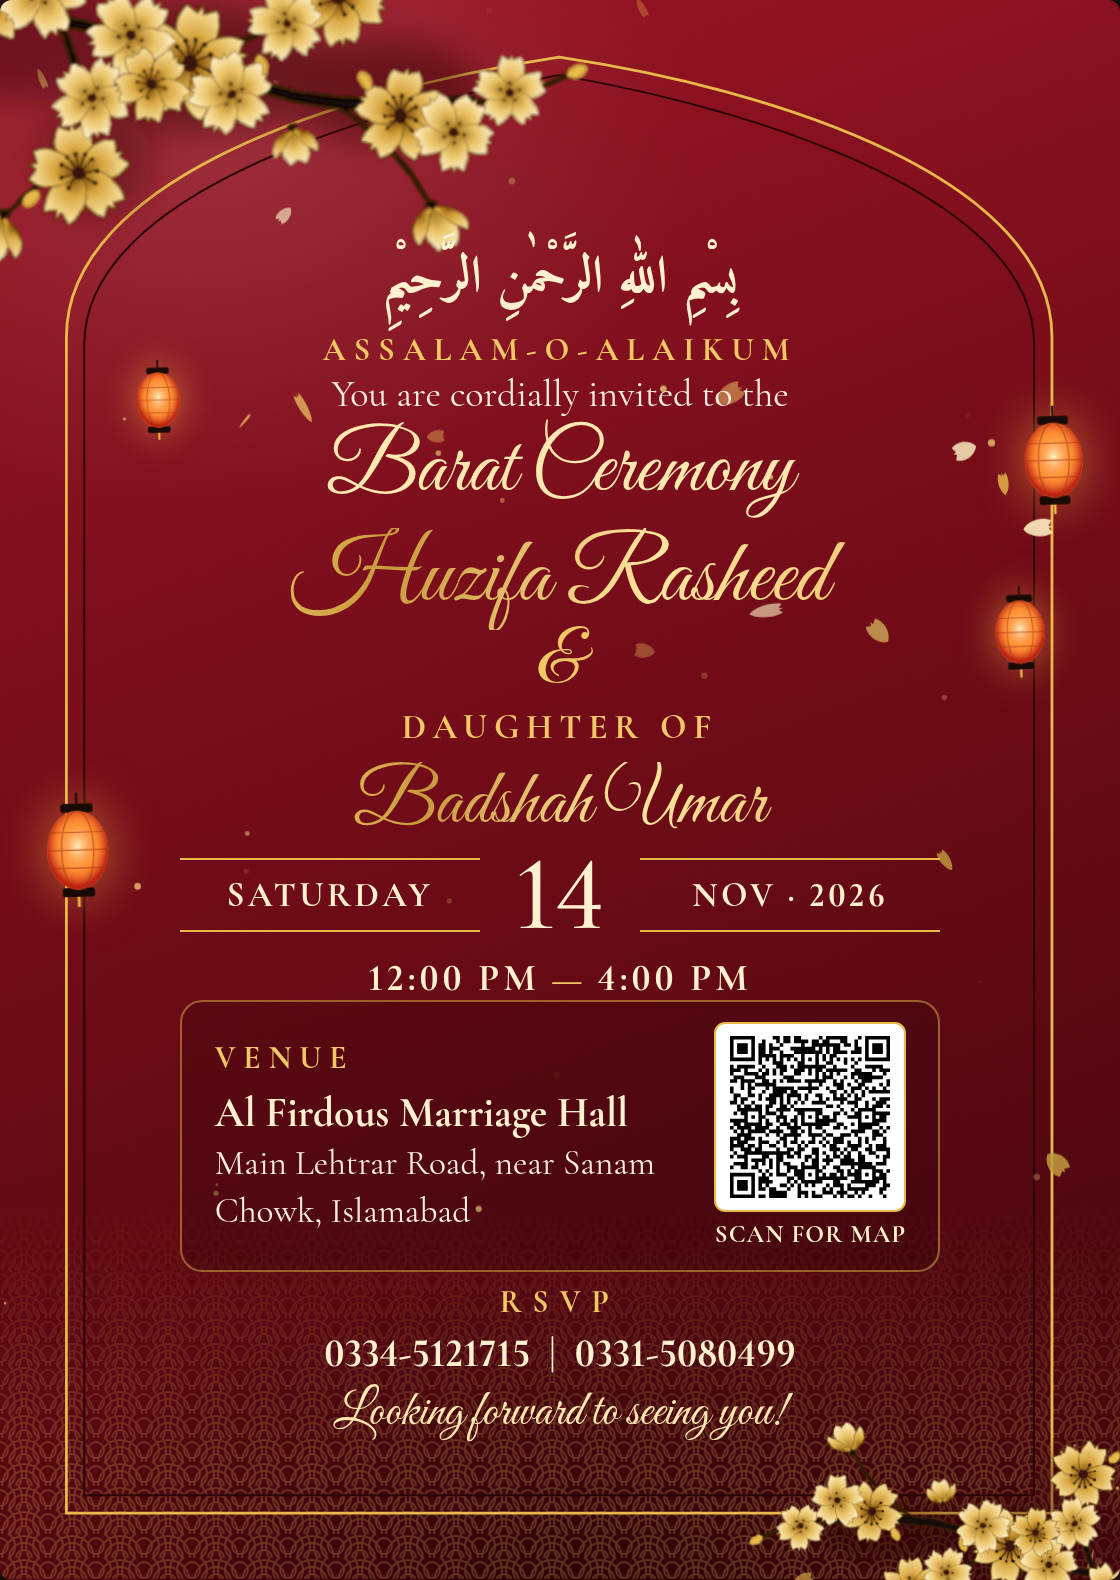
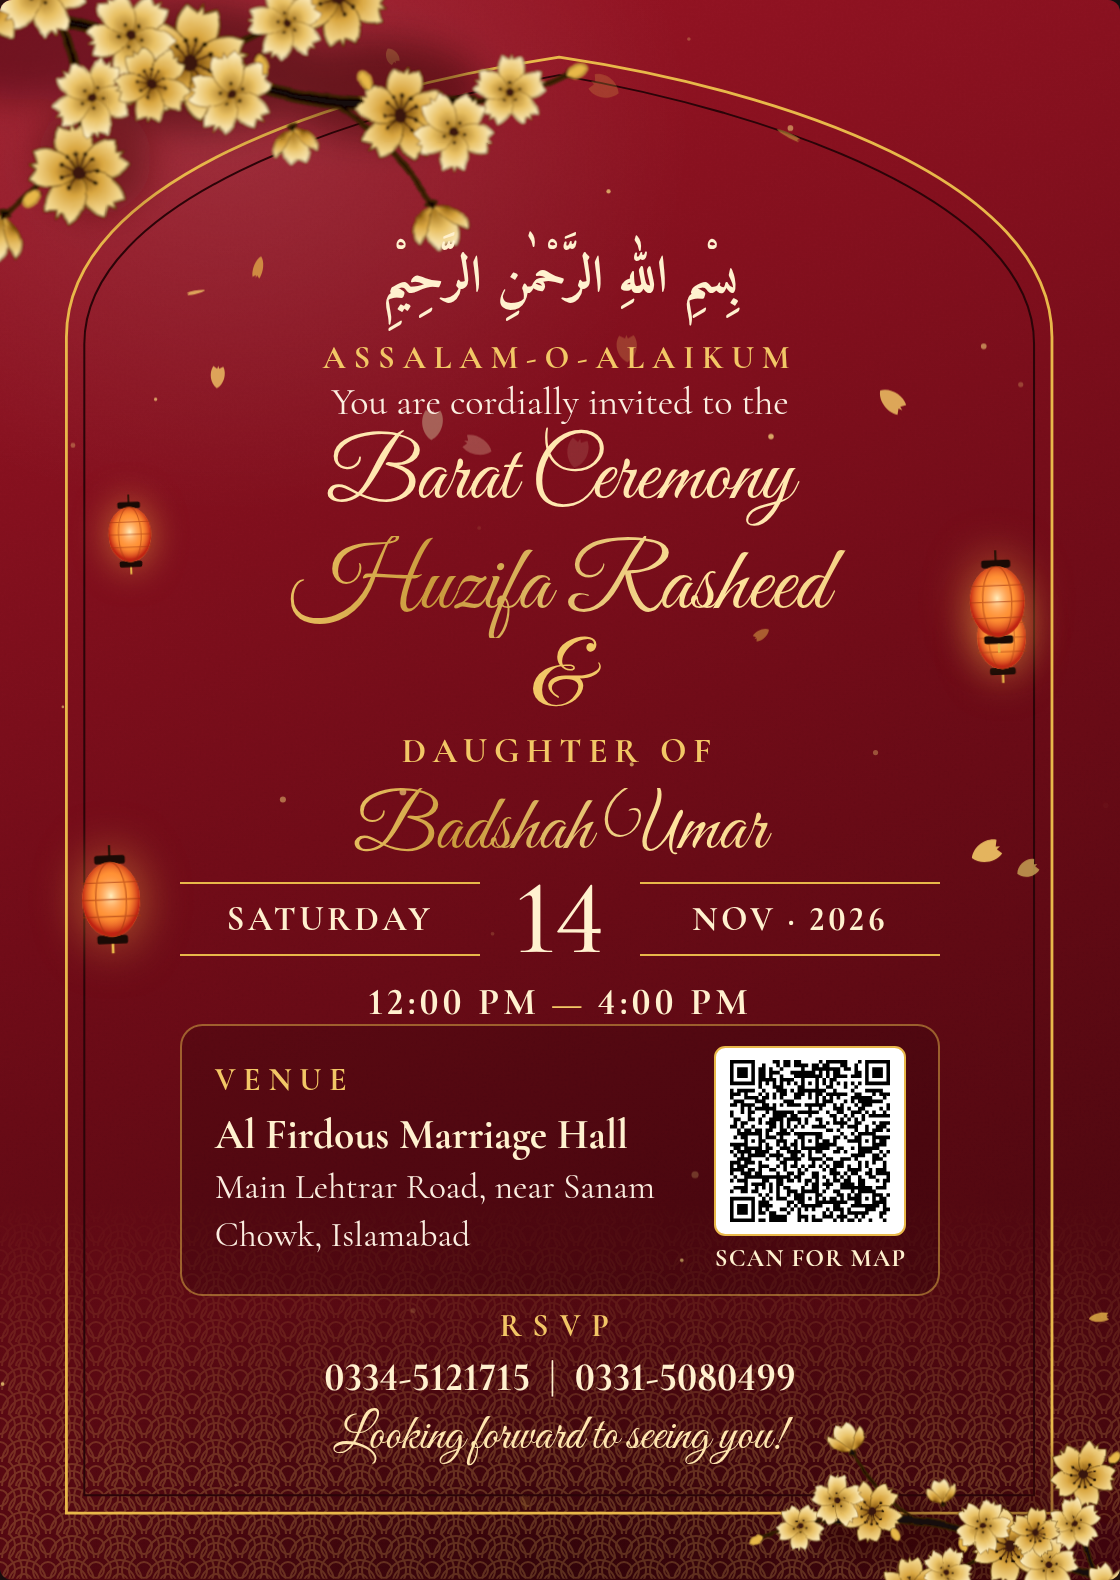
Critic fixes: cleaner text column, lanterns inside frame, thread rings clear of names, seal placement, blush contrast

diff --git a/index.html b/index.html
@@ -55,7 +55,7 @@ body.light{--page:#f3e6e6;--page-ink:#3b2a31;--chip:#fffafa;background-image:rad
   --box:#0000004d;--boxline:#c9a14a59;--f1:#c9a14a;--f2:#7d1520;--grain:.3;--blend:soft-light}
 .card[data-theme="blush"]{--bg:#fdf8f4;
   --wash:radial-gradient(ellipse 65% 45% at 50% 50%,#fff 0,transparent 70%),radial-gradient(ellipse 55% 30% at 0% 0%,#f9dde3 0,transparent 70%),radial-gradient(ellipse 55% 30% at 100% 100%,#f9dde3 0,transparent 70%);
-  --shadow:#5e214255;--name:#5e2142;--accent:#c45d7d;--label:#7a5a26;--body:#3b2a31;--strong:#5e2142;--rule:#c45d7d;
+  --shadow:#5e214255;--name:#5e2142;--accent:#a83a62;--label:#7a5a26;--body:#3b2a31;--strong:#5e2142;--rule:#c45d7d;
   --box:#fff8f8cc;--boxline:#efc9d3;--f1:#a8834a;--f2:#e4b9c4;--grain:.22;--blend:multiply}
 
 .layer{position:absolute;inset:0;pointer-events:none}
@@ -67,7 +67,8 @@ canvas.air{z-index:3;width:100%;height:100%}
 .branch.br{bottom:-7cqw;right:-8cqw;width:42cqw;transform-origin:50% 50%;animation:swayB 7s ease-in-out infinite alternate}
 @keyframes swayA{from{transform:rotate(-1.2deg)}to{transform:rotate(1.6deg)}}
 @keyframes swayB{from{transform:rotate(178.8deg)}to{transform:rotate(181.4deg)}}
-.card[data-theme="thread"] .branch,.card[data-theme="breeze"] .branch.br{display:none}
+.card[data-theme="thread"] .branch.br,.card[data-theme="breeze"] .branch.br{display:none}
+.card[data-theme="thread"] .branch.tl{width:40cqw;top:-7cqw;left:-7cqw}
 .card[data-theme="thread"] .frame{display:none}
 .extra{display:none}
 .card[data-theme="lacquer"] .x-lacquer,.card[data-theme="thread"] .x-thread,.card[data-theme="breeze"] .x-breeze{display:block}
@@ -93,17 +94,17 @@ canvas.air{z-index:3;width:100%;height:100%}
 @keyframes beat{0%,100%{transform:scale(1)}15%{transform:scale(1.18)}30%{transform:scale(1)}45%{transform:scale(1.1)}}
 
 /* breeze: hanko seal */
-.seal{position:absolute;left:6.5cqw;bottom:6.5cqw;width:12.5cqw;z-index:5;transform:rotate(-9deg);opacity:.92}
+.seal{position:absolute;left:9.5cqw;bottom:10cqw;width:10.5cqw;z-index:5;transform:rotate(-9deg);opacity:.92}
 
 /* ---------- content ---------- */
 .content{position:absolute;inset:0;z-index:6;display:flex;flex-direction:column;align-items:center;text-align:center;padding:21.5cqw 16cqw 12cqw;justify-content:space-between}
 .bism{font-family:Amiri,serif;font-weight:700;font-size:4.6cqw;color:var(--strong);line-height:1.45;direction:rtl}
-.salam{margin-top:1.2cqw;font-size:2.9cqw;letter-spacing:.7cqw;text-transform:uppercase;color:var(--label);font-weight:700}
+.salam{margin-top:2cqw;font-size:2.9cqw;letter-spacing:.7cqw;text-transform:uppercase;color:var(--label);font-weight:700}
 .lede{font-size:3.4cqw;line-height:1.3;color:var(--body)}
 .event{font-family:"Great Vibes",cursive;font-size:7.6cqw;color:var(--accent);line-height:1;margin-top:1cqw}
 .names{display:flex;flex-direction:column;align-items:center;margin-top:1cqw}
 .name{font-family:"Great Vibes",cursive;color:var(--name);line-height:1.12;font-size:8.2cqw;padding:0 2cqw}
-.amp{font-family:"Great Vibes",cursive;color:var(--label);font-size:6.6cqw;line-height:.95}
+.amp{font-family:"Great Vibes",cursive;color:var(--label);font-size:8.2cqw;line-height:.95}
 .bride{font-size:3.1cqw;letter-spacing:.6cqw;text-transform:uppercase;color:var(--label);font-weight:700;margin:.4cqw 0 1.4cqw}
 .bride + .name{font-size:6.9cqw}
 .card:not([data-theme="blush"]) .name{background:linear-gradient(100deg,#8c6420 0%,#e9c46a 18%,#fff0c2 30%,#c99a3c 44%,#8c6420 56%,#f2d68e 74%,#b8892f 100%);
@@ -216,11 +217,10 @@ body.light .btn{border-color:#5e2142;color:#5e2142}body.light .btn.primary{backg
   <!-- thread: the red string of fate, groom's ring → heart knot at the arch → bride's ring -->
   <svg class="extra x-thread thread" viewBox="0 0 100 141" aria-hidden="true">
     <path class="rest" d="M7.5 46 V137 H92.5 V68"/>
-    <path class="rest" d="M9 47 V135.5 H91 V69" opacity=".5"/>
-    <path class="string" pathLength="1" d="M22.4 52.8 C 15 53.2 7.5 51 7.5 44 L7.5 28 C7.5 18 28 12.5 50 10.2 C 47 8.6 43.6 6 45 3.6 C 46.3 1.6 49.2 2 50 4.6 C 50.8 2 53.7 1.6 55 3.6 C 56.4 6 53 8.6 50 10.2 C 72 12.5 92.5 18 92.5 28 L92.5 66 C92.5 73 86 74.6 74.6 74.6"/>
+        <path class="string" pathLength="1" d="M19.8 52.8 C 14 53.2 7.5 51 7.5 44 L7.5 28 C7.5 18 28 12.5 50 10.2 C 47 8.6 43.6 6 45 3.6 C 46.3 1.6 49.2 2 50 4.6 C 50.8 2 53.7 1.6 55 3.6 C 56.4 6 53 8.6 50 10.2 C 72 12.5 92.5 18 92.5 28 L92.5 66 C92.5 71.5 87 73.2 77 73.2"/>
     <g class="heart"><path d="M50 10.2 C 47 8.6 43.6 6 45 3.6 C 46.3 1.6 49.2 2 50 4.6 C 50.8 2 53.7 1.6 55 3.6 C 56.4 6 53 8.6 50 10.2Z" fill="#d8283a" opacity=".25"/></g>
-    <circle class="ring r1" cx="23.2" cy="52.8" r=".9"/>
-    <circle class="ring r2" cx="73.8" cy="74.6" r=".9"/>
+    <circle class="ring r1" cx="20.6" cy="52.8" r=".9"/>
+    <circle class="ring r2" cx="76.2" cy="73.2" r=".9"/>
   </svg>
 
   <!-- breeze: red hanko seal with a blossom -->
@@ -361,7 +361,7 @@ const lanternSVG = `<svg viewBox="0 0 40 64"><line x1="20" y1="0" x2="20" y2="7"
   <g stroke="#a3360f" stroke-width=".8" fill="none" opacity=".55"><ellipse cx="20" cy="32" rx="9" ry="22"/><path d="M3 22 H37 M3 32 H37 M3 42 H37"/></g>
   <line x1="20" y1="58" x2="20" y2="64" stroke="#e8b84a" stroke-width="1.6"/>
   <defs><radialGradient id="lg" cx="50%" cy="45%"><stop offset="0" stop-color="#fff2c4" stop-opacity=".95"/><stop offset=".6" stop-color="#ff7a2a" stop-opacity=".35"/><stop offset="1" stop-color="#b8160e" stop-opacity=".9"/></radialGradient></defs></svg>`;
-document.getElementById("lanterns").innerHTML = [[4,26,-4,1],[88,32,-15,.8],[11,30,-22,.7],[91,24,-9,.95],[2,36,-30,.6]]
+document.getElementById("lanterns").innerHTML = [[7,26,-4,.95],[86.5,32,-15,.8],[8.5,30,-19,.7],[86,24,-8,.9],[6.5,36,-30,.6]]
   .map(([l,d,dl,s])=>`<div class="lantern" style="left:${l}cqw;animation-duration:${d}s;animation-delay:${dl}s;scale:${s}">${lanternSVG}</div>`).join("");
 
 // ---------- the wind: a flow field that moves petals, gold dust and visible air currents ----------
@@ -385,10 +385,10 @@ function step(dt){t+=dt;const g=gust(t);
     p.r+=p.vr*dt*(1+2*g);p.f+=p.vf*dt;if(p.x>W*1.08||p.y>H*1.05)spawnPetal(p,false)}
   for(const d of dust){const [vx,vy]=wind(d.x,d.y,t);d.x+=vx*.25*dt;d.y+=(vy*.2-H*.01)*dt;if(d.x>W)d.x-=W;if(d.y<0)d.y+=H;if(d.y>H)d.y-=H}
   for(const s of streaks){const v=s.y/H,u=s.x/W;s.x+=W*(.16+.12*g)*s.sp*dt;s.y+=H*.05*Math.sin(u*5+v*2+t*.8+s.ph)*s.sp*dt;s.h.push([s.x,s.y]);if(s.h.length>46)s.h.shift();if(s.x>W*1.15)spawnStreak(s,false)}}
-const calm=x=>.22+.78*Math.min(1,Math.abs(x/W-.5)*3.2);
+const calm=x=>.1+.9*Math.min(1,Math.abs(x/W-.5)*3.2), still=x=>(x>W*.14&&x<W*.86)?.1:1;
 function draw(){ctx.clearRect(0,0,W,H);const u=W/100;
   ctx.lineCap="round";
-  for(const s of streaks){const h=s.h;for(let i=1;i<h.length;i++){ctx.strokeStyle=`rgba(232,196,112,${(i/h.length)*.7*calm(h[i][0])})`;ctx.lineWidth=u*.32*(i/h.length);
+  for(const s of streaks){const h=s.h;for(let i=1;i<h.length;i++){ctx.strokeStyle=`rgba(232,196,112,${(i/h.length)*.7*still(h[i][0])})`;ctx.lineWidth=u*.32*(i/h.length);
     ctx.beginPath();ctx.moveTo(h[i-1][0],h[i-1][1]);ctx.lineTo(h[i][0],h[i][1]);ctx.stroke()}}
   for(const d of dust){const a=.35+.45*Math.sin(t*2+d.ph);ctx.fillStyle=`rgba(240,205,120,${Math.max(0,a)})`;ctx.beginPath();ctx.arc(d.x,d.y,d.s*u*.18,0,7);ctx.fill()}
   for(const p of petals){const k=p.z*u*.11,fl=Math.cos(p.f);ctx.save();ctx.translate(p.x,p.y);ctx.rotate(p.r);ctx.scale(k*(.15+.85*Math.abs(fl)),k);
